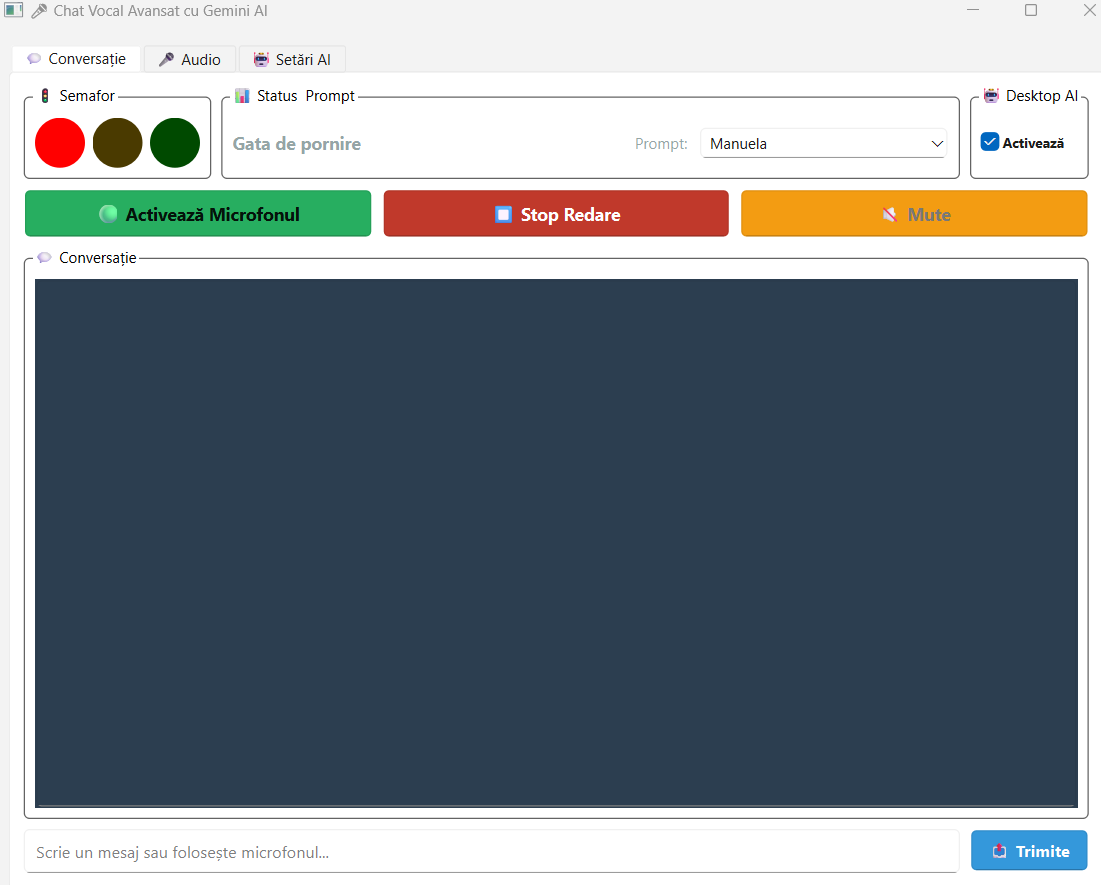
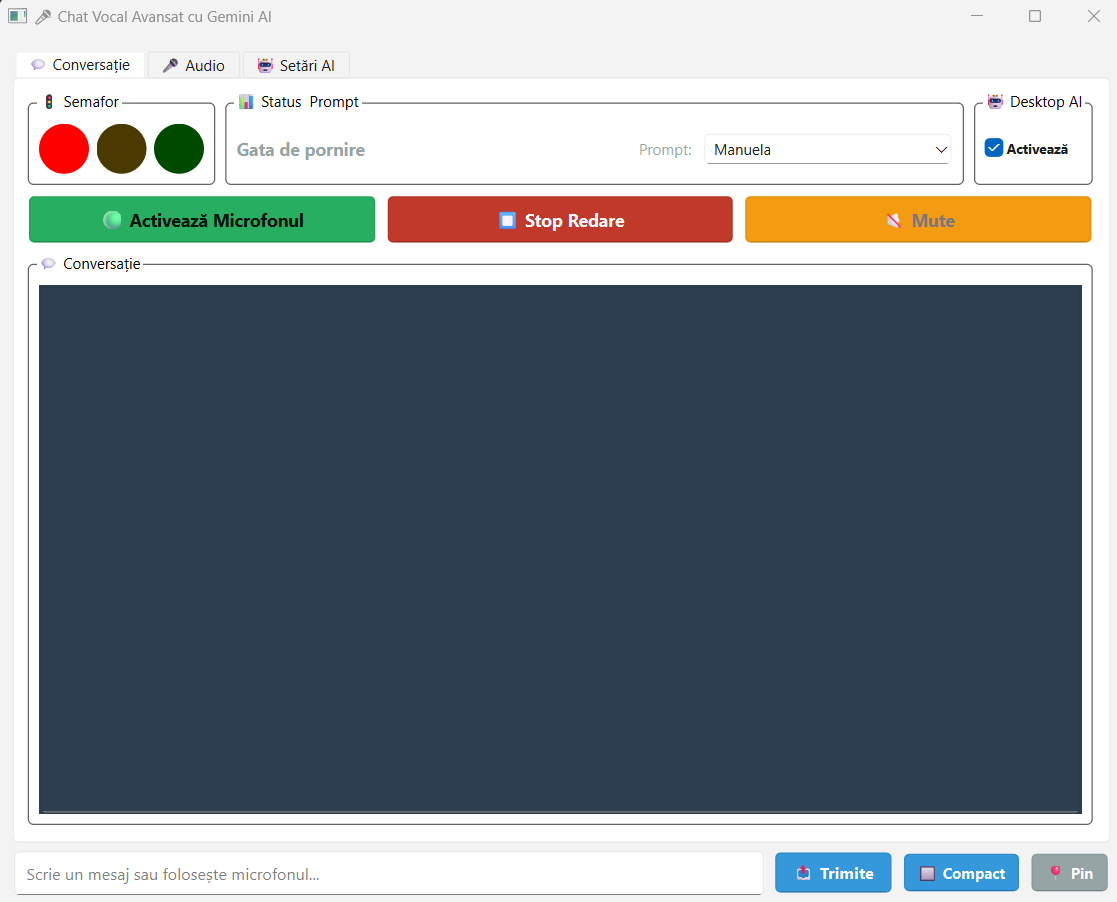
mod compact

diff --git a/voice_chat.py b/voice_chat.py
@@ -41,7 +41,7 @@ from PySide6.QtWidgets import (QApplication, QWidget, QVBoxLayout, QHBoxLayout, 
                                QLineEdit, QPushButton, QTextEdit, QGroupBox, QFormLayout,
                                QSlider, QMessageBox, QCheckBox, QTabWidget, QSpinBox, QDialog,
                                QDialogButtonBox, QComboBox, QStackedLayout)
-from PySide6.QtCore import QThread, Signal, QObject, Qt, QTimer, Slot
+from PySide6.QtCore import QThread, Signal, QObject, Qt, QTimer, Slot, QSize
 from PySide6.QtGui import QColor, QFont, QScreen, QTextCursor
 import google.generativeai as genai
 from dotenv import load_dotenv
@@ -486,9 +486,15 @@ class AdvancedVoiceChatApp(QWidget):
         self.auto_calibrate_on_start = default_config["auto_calibrate_on_start"]
         self.desktop_assistant_mode = default_config["desktop_assistant_mode"]
         self.selected_model = default_config["selected_model"]
-        self.selected_prompt_file = default_config["selected_prompt"]  # <-- NOU
-        
+        self.selected_prompt_file = default_config["selected_prompt"]  
+
         log_timestamp(f"⚙ [CONFIG] Auto-calibrare la pornire încărcat: {self.auto_calibrate_on_start}", "config")
+
+        self.compact_mode = default_config.get("compact_mode", False)
+        self.is_pinned = default_config.get("always_on_top", False)
+        log_timestamp(f"⚙ [CONFIG] Compact mode: {self.compact_mode}, Always on top: {self.is_pinned}", "config")
+
+
         log_timestamp(f"⚙ [CONFIG] Desktop Assistant Mode încărcat: {self.desktop_assistant_mode}", "config")
         log_timestamp(f"🤖 [CONFIG] Model AI încărcat: {self.selected_model}", "config")
         log_timestamp(f"📝 [CONFIG] Prompt selectat: {self.selected_prompt_file}", "config")
@@ -832,7 +838,9 @@ class AdvancedVoiceChatApp(QWidget):
             "auto_calibrate_on_start": self.auto_calibrate_on_start, # <-- SALVĂM AUTO-CALIBRARE
             "desktop_assistant_mode": self.desktop_assistant_mode,  # <-- SALVĂM DESKTOP ASSISTANT
             "selected_model": self.selected_model,  # <-- SALVĂM MODELUL AI
-            "selected_prompt": self.selected_prompt_file  # <-- NOU: Salvăm promptul selectat
+            "selected_prompt": self.selected_prompt_file,  # <-- NOU: Salvăm promptul selectat
+            "compact_mode": self.compact_mode,  # <-- NOU
+            "always_on_top": self.is_pinned    # <-- NOU
         }
         try:
             with open(self.CONFIG_FILE, 'w', encoding='utf-8') as f:
@@ -896,6 +904,14 @@ class AdvancedVoiceChatApp(QWidget):
         self.conversation_history = []
         self.voice_enabled = self.is_muted = False
         self.voice_worker = self.voice_thread = None
+
+        # --- VARIABILE PENTRU COMPACT MODE ---
+        self.compact_mode = False
+        self.is_pinned = False
+        self.normal_size = QSize(900, 700)
+        self.compact_size = QSize(400, 85)
+        self.saved_bottom_position = None  # ← NOU: salvăm bottom-ul fix
+
         self.gemini_response_signal.connect(self.display_gemini_response)
         self.streaming_tts.signals.all_sentences_finished.connect(self.on_all_sentences_finished)
         self.streaming_tts.signals.error_occurred.connect(self.on_streaming_tts_error)
@@ -907,6 +923,13 @@ class AdvancedVoiceChatApp(QWidget):
         # Populăm ComboBox-urile cu prompturile disponibile
         self.refresh_prompt_combos()
         
+        # Aplicăm starea salvată pentru compact mode și pin
+        if self.is_pinned:
+            self.toggle_always_on_top()  # Setează pin
+        if self.compact_mode:
+            self.toggle_compact_mode()  # Setează compact
+
+
         # Actualizăm preview-ul prompt-ului după ce UI-ul e creat
         self.update_prompt_preview()
 
@@ -1146,11 +1169,22 @@ class AdvancedVoiceChatApp(QWidget):
                     full_response = ""
                     chunk_count = 0
                     for chunk in response_stream:
-                        if chunk.text:
-                            full_response += chunk.text
-                            chunk_count += 1
-                            if chunk_count % 5 == 0:
-                                log_timestamp(f"📦 [ASSISTANT] Chunk #{chunk_count}, total: {len(full_response)} chars", "gemini_debug")
+                        # Verificăm dacă chunk-ul are conținut valid
+                        try:
+                            if chunk.text:
+                                full_response += chunk.text
+                                chunk_count += 1
+                                if chunk_count % 5 == 0:
+                                    log_timestamp(f"📦 [ASSISTANT] Chunk #{chunk_count}, total: {len(full_response)} chars", "gemini_debug")
+                        except ValueError:
+                            # Chunk-ul nu are text valid (blocat de safety sau finish_reason != STOP)
+                            log_timestamp(f"⚠ [ASSISTANT] Chunk fără text valid (finish_reason: {chunk.candidates[0].finish_reason})", "gemini")
+                            continue
+                    
+                    # Verificăm dacă am primit vreun răspuns
+                    if not full_response:
+                        full_response = "⚠ Răspunsul a fost blocat de sistemul de siguranță. Încearcă o altă întrebare sau dezactivează Desktop Assistant."
+                        log_timestamp(f"⚠ [ASSISTANT] Răspuns blocat complet", "gemini")
                     
                     log_timestamp(f"✅ [ASSISTANT] Răspuns complet! {chunk_count} chunks, {len(full_response)} chars", "gemini")
                     log_timestamp(f"💬 [ASSISTANT] Preview: '{full_response[:150]}...'", "gemini_debug")
@@ -1276,6 +1310,8 @@ class AdvancedVoiceChatApp(QWidget):
         self.setWindowTitle("🎤 Chat Vocal Avansat cu Gemini AI")
         self.setMinimumSize(900, 700)
         main_layout = QVBoxLayout()
+        
+        # Creăm tab-urile
         self.tabs = QTabWidget()
         conversation_tab = self.create_conversation_tab()
         audio_tab = self.create_audio_tab()
@@ -1283,9 +1319,39 @@ class AdvancedVoiceChatApp(QWidget):
         self.tabs.addTab(conversation_tab, "💬 Conversație")
         self.tabs.addTab(audio_tab, "🎤 Audio")
         self.tabs.addTab(ai_settings_tab, "🤖 Setări AI")
+        
         main_layout.addWidget(self.tabs)
+        
+        # --- INPUT AREA + BUTOANE (VIZIBIL ÎN AMBELE MODURI) ---
+        input_layout = QHBoxLayout()
+        
+        self.text_input = QLineEdit()
+        self.text_input.setPlaceholderText("Scrie un mesaj sau folosește microfonul...")
+        self.text_input.setStyleSheet("font-size: 13px; padding: 8px;")
+        self.text_input.returnPressed.connect(self.send_text_message)
+        
+        self.send_button = QPushButton("📤 Trimite")
+        self.send_button.setStyleSheet("background-color: #3498db; color: white; font-size: 13px; padding: 8px 15px; font-weight: bold;")
+        self.send_button.clicked.connect(self.send_text_message)
+        
+        self.compact_button = QPushButton("🔲 Compact")
+        self.compact_button.setStyleSheet("background-color: #3498db; color: white; font-size: 12px; padding: 8px 12px; font-weight: bold;")
+        self.compact_button.clicked.connect(self.toggle_compact_mode)
+        
+        self.pin_button = QPushButton("📍 Pin")
+        self.pin_button.setStyleSheet("background-color: #95a5a6; color: white; font-size: 12px; padding: 8px 12px; font-weight: bold;")
+        self.pin_button.clicked.connect(self.toggle_always_on_top)
+        
+        input_layout.addWidget(self.text_input)
+        input_layout.addWidget(self.send_button)
+        input_layout.addWidget(self.compact_button)
+        input_layout.addWidget(self.pin_button)
+        
+        main_layout.addLayout(input_layout)
+        # --- SFÂRȘIT INPUT AREA ---
+        
         self.setLayout(main_layout)
-
+        
     def create_conversation_tab(self):
         """Creează tab-ul principal de conversație"""
         widget = QWidget()
@@ -1454,26 +1520,11 @@ class AdvancedVoiceChatApp(QWidget):
         self.chat_display.setStyleSheet("background-color: #2c3e50; color: white; font-size: 12px; padding: 10px;")
         chat_layout.addWidget(self.chat_display)
         
-        # --- SECȚIUNEA 4: INPUT TEXT ---
-        input_layout = QHBoxLayout()
-        
-        self.text_input = QLineEdit()
-        self.text_input.setPlaceholderText("Scrie un mesaj sau folosește microfonul...")
-        self.text_input.setStyleSheet("font-size: 13px; padding: 8px;")
-        self.text_input.returnPressed.connect(self.send_text_message)
-        
-        self.send_button = QPushButton("📤 Trimite")
-        self.send_button.setStyleSheet("background-color: #3498db; color: white; font-size: 13px; padding: 8px 15px; font-weight: bold;")
-        self.send_button.clicked.connect(self.send_text_message)
-        
-        input_layout.addWidget(self.text_input)
-        input_layout.addWidget(self.send_button)
-        
-        # --- ASAMBLARE FINALĂ LAYOUT ---
+        # --- ASAMBLARE FINALĂ LAYOUT (INPUT AREA SE MUTĂ ÎN MAIN_LAYOUT) ---
         layout.addLayout(status_layout)
         layout.addLayout(buttons_layout)
         layout.addWidget(chat_group, 1)
-        layout.addLayout(input_layout)
+        # input_layout se mută în init_ui() pentru a fi vizibil în ambele moduri
         
         return widget
 
@@ -1812,6 +1863,85 @@ class AdvancedVoiceChatApp(QWidget):
 
         # Asigurăm auto-scroll la ultimul mesaj
         self.chat_display.ensureCursorVisible()
+
+
+    def toggle_compact_mode(self):
+        """Comută între modul normal și compact - linia de jos rămâne fixă."""
+        self.compact_mode = not self.compact_mode
+        
+        if self.compact_mode:
+            # --- MODUL ULTRA COMPACT ---
+            log_timestamp("🔲 [UI] Comutare la Mod Compact", "app")
+            
+            # Salvăm poziția bottom DOAR la prima intrare în compact
+            if self.saved_bottom_position is None:
+                self.saved_bottom_position = self.y() + self.height()
+            
+            # Schimbă textul butonului
+            self.compact_button.setText("🔲 Normal")
+            self.compact_button.setStyleSheet("background-color: #27ae60; color: white; font-size: 12px; padding: 8px 12px; font-weight: bold;")
+            
+            # Ascunde tab-urile
+            self.tabs.setVisible(False)
+            
+            # Calculează noua poziție Y pentru a menține bottom-ul fix
+            compact_height = 80
+            new_y = self.saved_bottom_position - compact_height
+            
+            # Setează poziția și dimensiunea
+            current_width = self.width()
+            self.setGeometry(self.x(), new_y, current_width, compact_height)
+            self.setFixedHeight(compact_height)
+            
+        else:
+            # --- MODUL NORMAL ---
+            log_timestamp("🔲 [UI] Comutare la Mod Normal", "app")
+            
+            # Schimbă textul butonului
+            self.compact_button.setText("🔲 Compact")
+            self.compact_button.setStyleSheet("background-color: #3498db; color: white; font-size: 12px; padding: 8px 12px; font-weight: bold;")
+            
+            # Arată tab-urile
+            self.tabs.setVisible(True)
+            
+            # Calculează noua poziție Y folosind bottom-ul salvat
+            new_height = self.normal_size.height()
+            new_y = self.saved_bottom_position - new_height
+            
+            # Restaurează dimensiune normală
+            self.setMinimumSize(800, 600)
+            self.setMaximumSize(16777215, 16777215)
+            self.setGeometry(self.x(), new_y, self.normal_size.width(), new_height)
+            
+            # Resetăm saved_bottom pentru next cycle (se va recalcula la următorul compact)
+            self.saved_bottom_position = None
+        
+        # Salvează starea
+        self.save_config()
+        log_timestamp(f"✅ [UI] Compact mode: {self.compact_mode}", "config")
+
+    
+    def toggle_always_on_top(self):
+        """Toggle always-on-top pentru fereastră."""
+        self.is_pinned = not self.is_pinned
+        
+        if self.is_pinned:
+            log_timestamp("📌 [UI] Always-on-top activat", "app")
+            self.pin_button.setText("📌 Pinned")
+            self.pin_button.setStyleSheet("background-color: #e67e22; color: white; font-size: 12px; padding: 5px 10px; font-weight: bold;")
+            self.setWindowFlags(self.windowFlags() | Qt.WindowFlag.WindowStaysOnTopHint)
+        else:
+            log_timestamp("📍 [UI] Always-on-top dezactivat", "app")
+            self.pin_button.setText("📍 Pin")
+            self.pin_button.setStyleSheet("background-color: #95a5a6; color: white; font-size: 12px; padding: 5px 10px; font-weight: bold;")
+            self.setWindowFlags(self.windowFlags() & ~Qt.WindowFlag.WindowStaysOnTopHint)
+        
+        # IMPORTANT: show() pentru a aplica window flags
+        self.show()
+        
+        # Salvează starea
+        self.save_config()
+        log_timestamp(f"✅ [UI] Always on top: {self.is_pinned}", "config")
 
 
 
